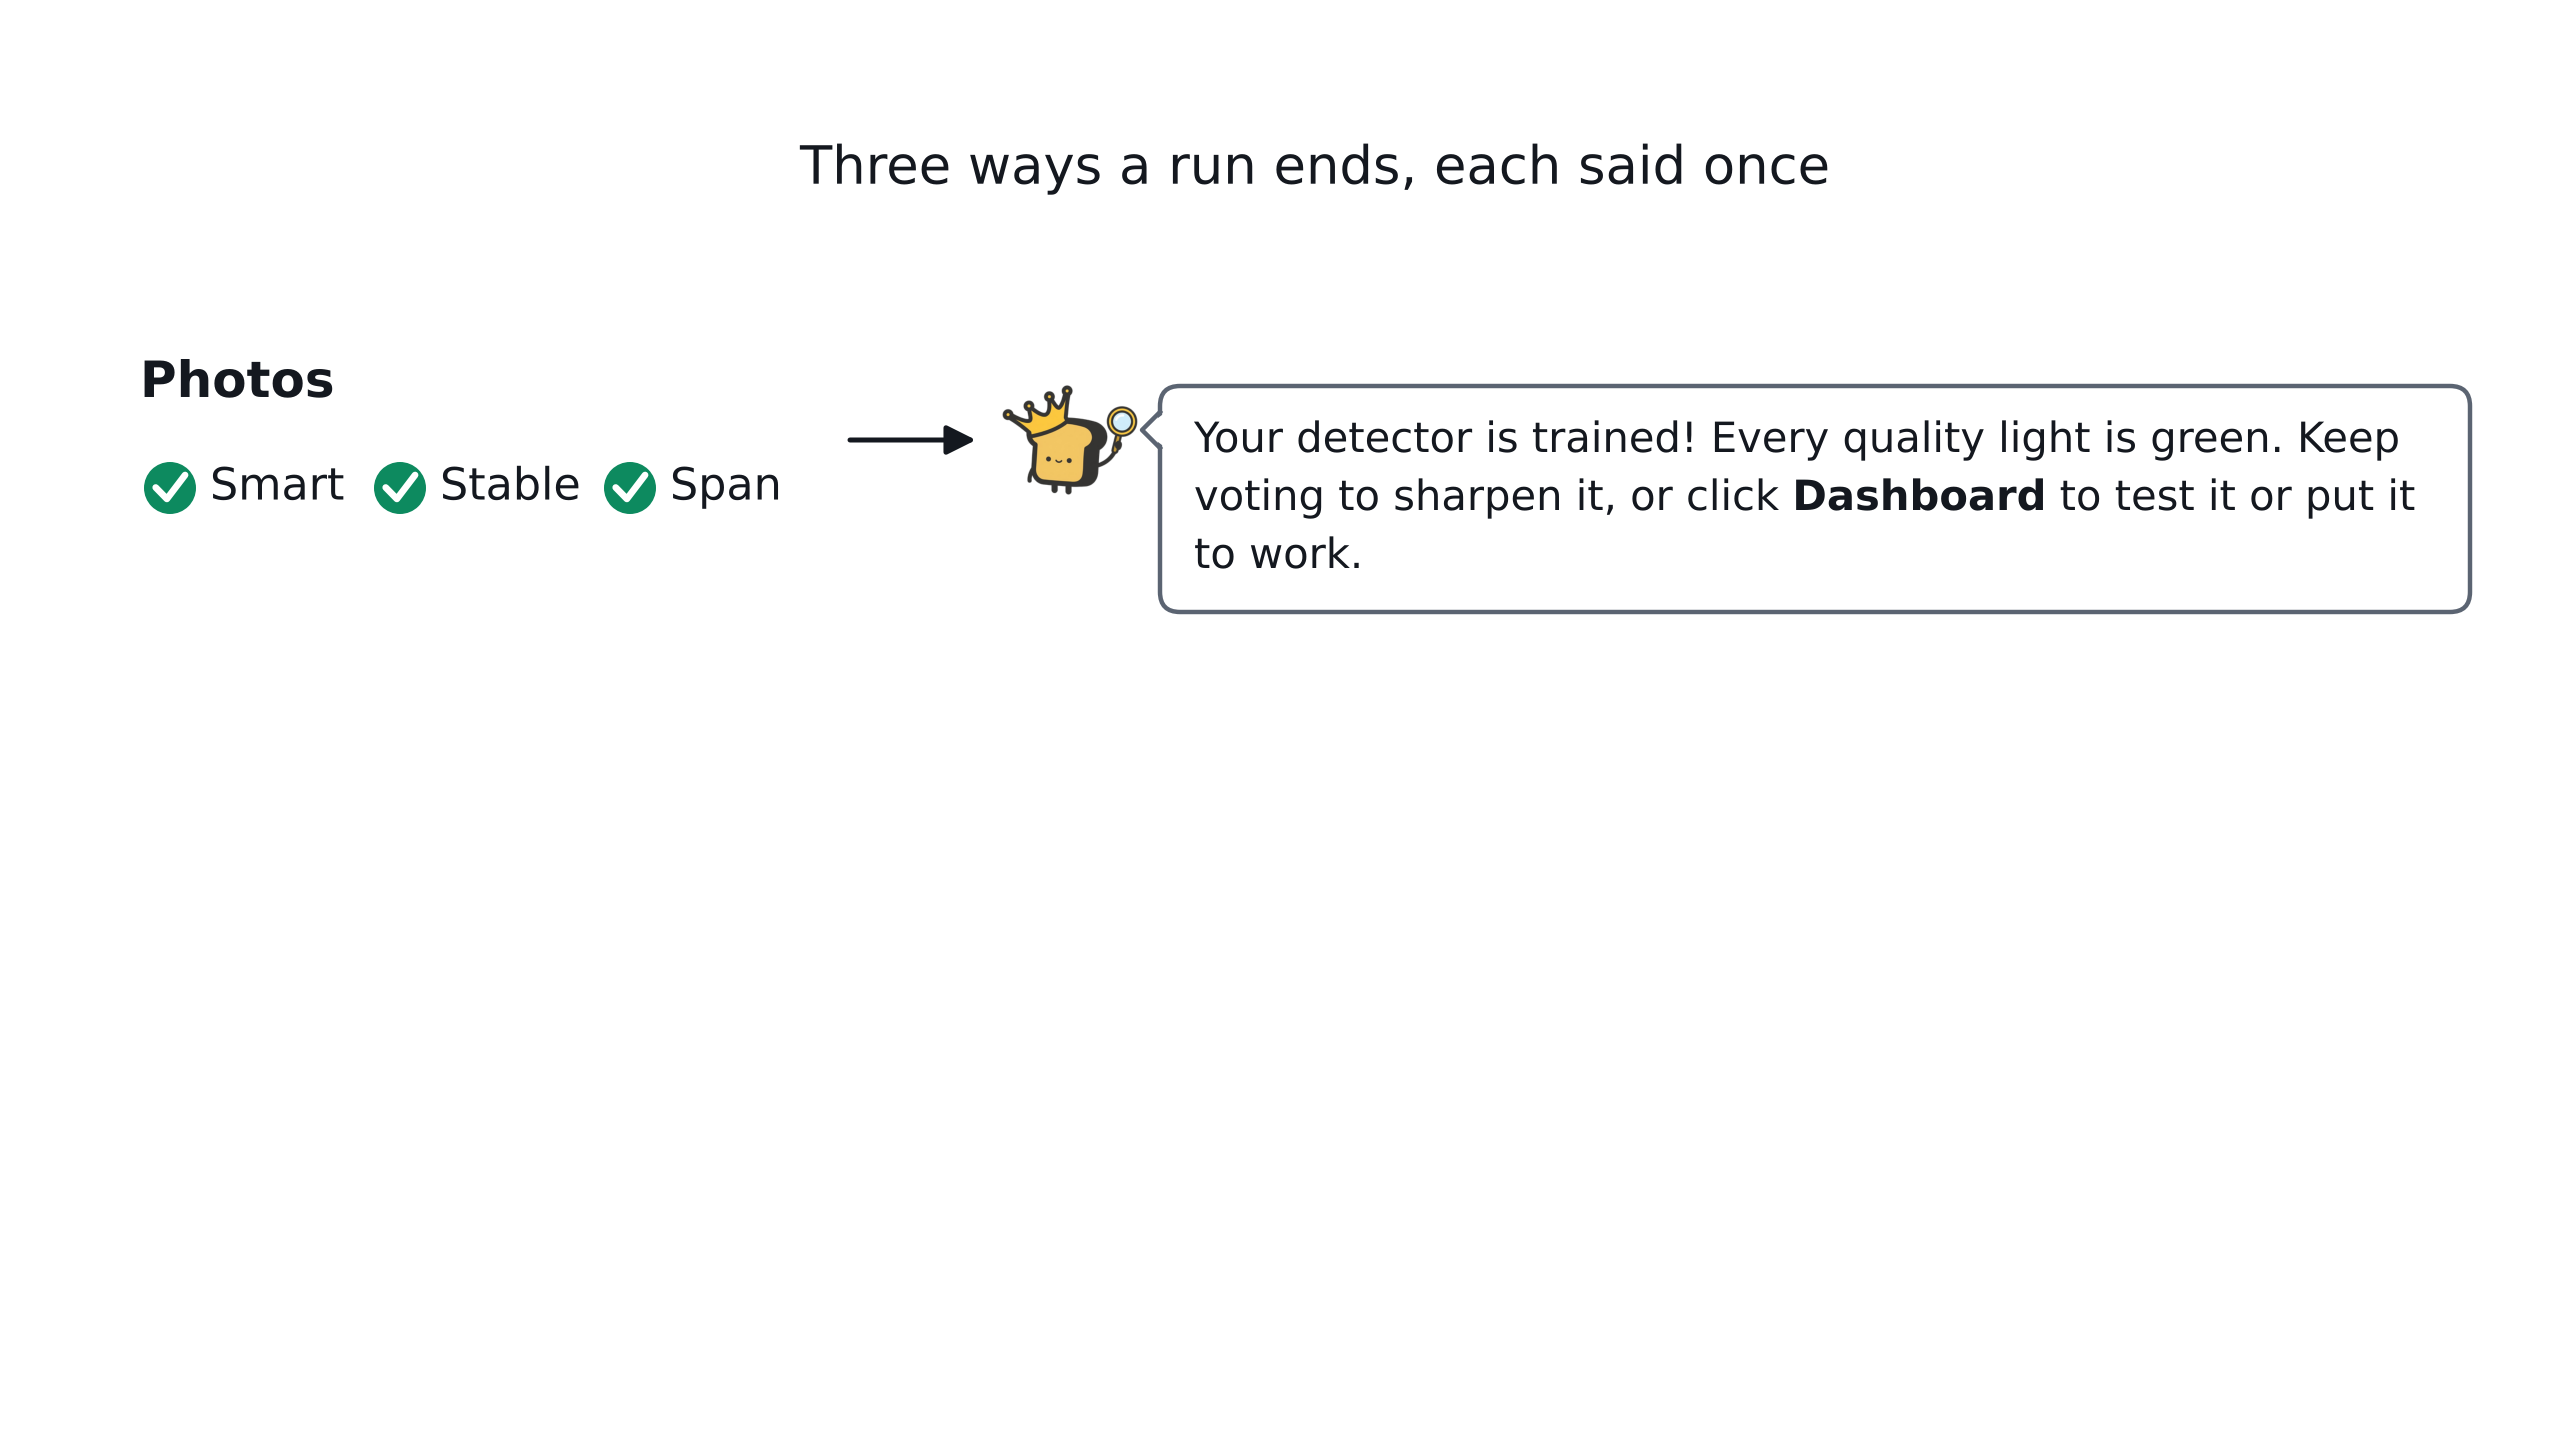
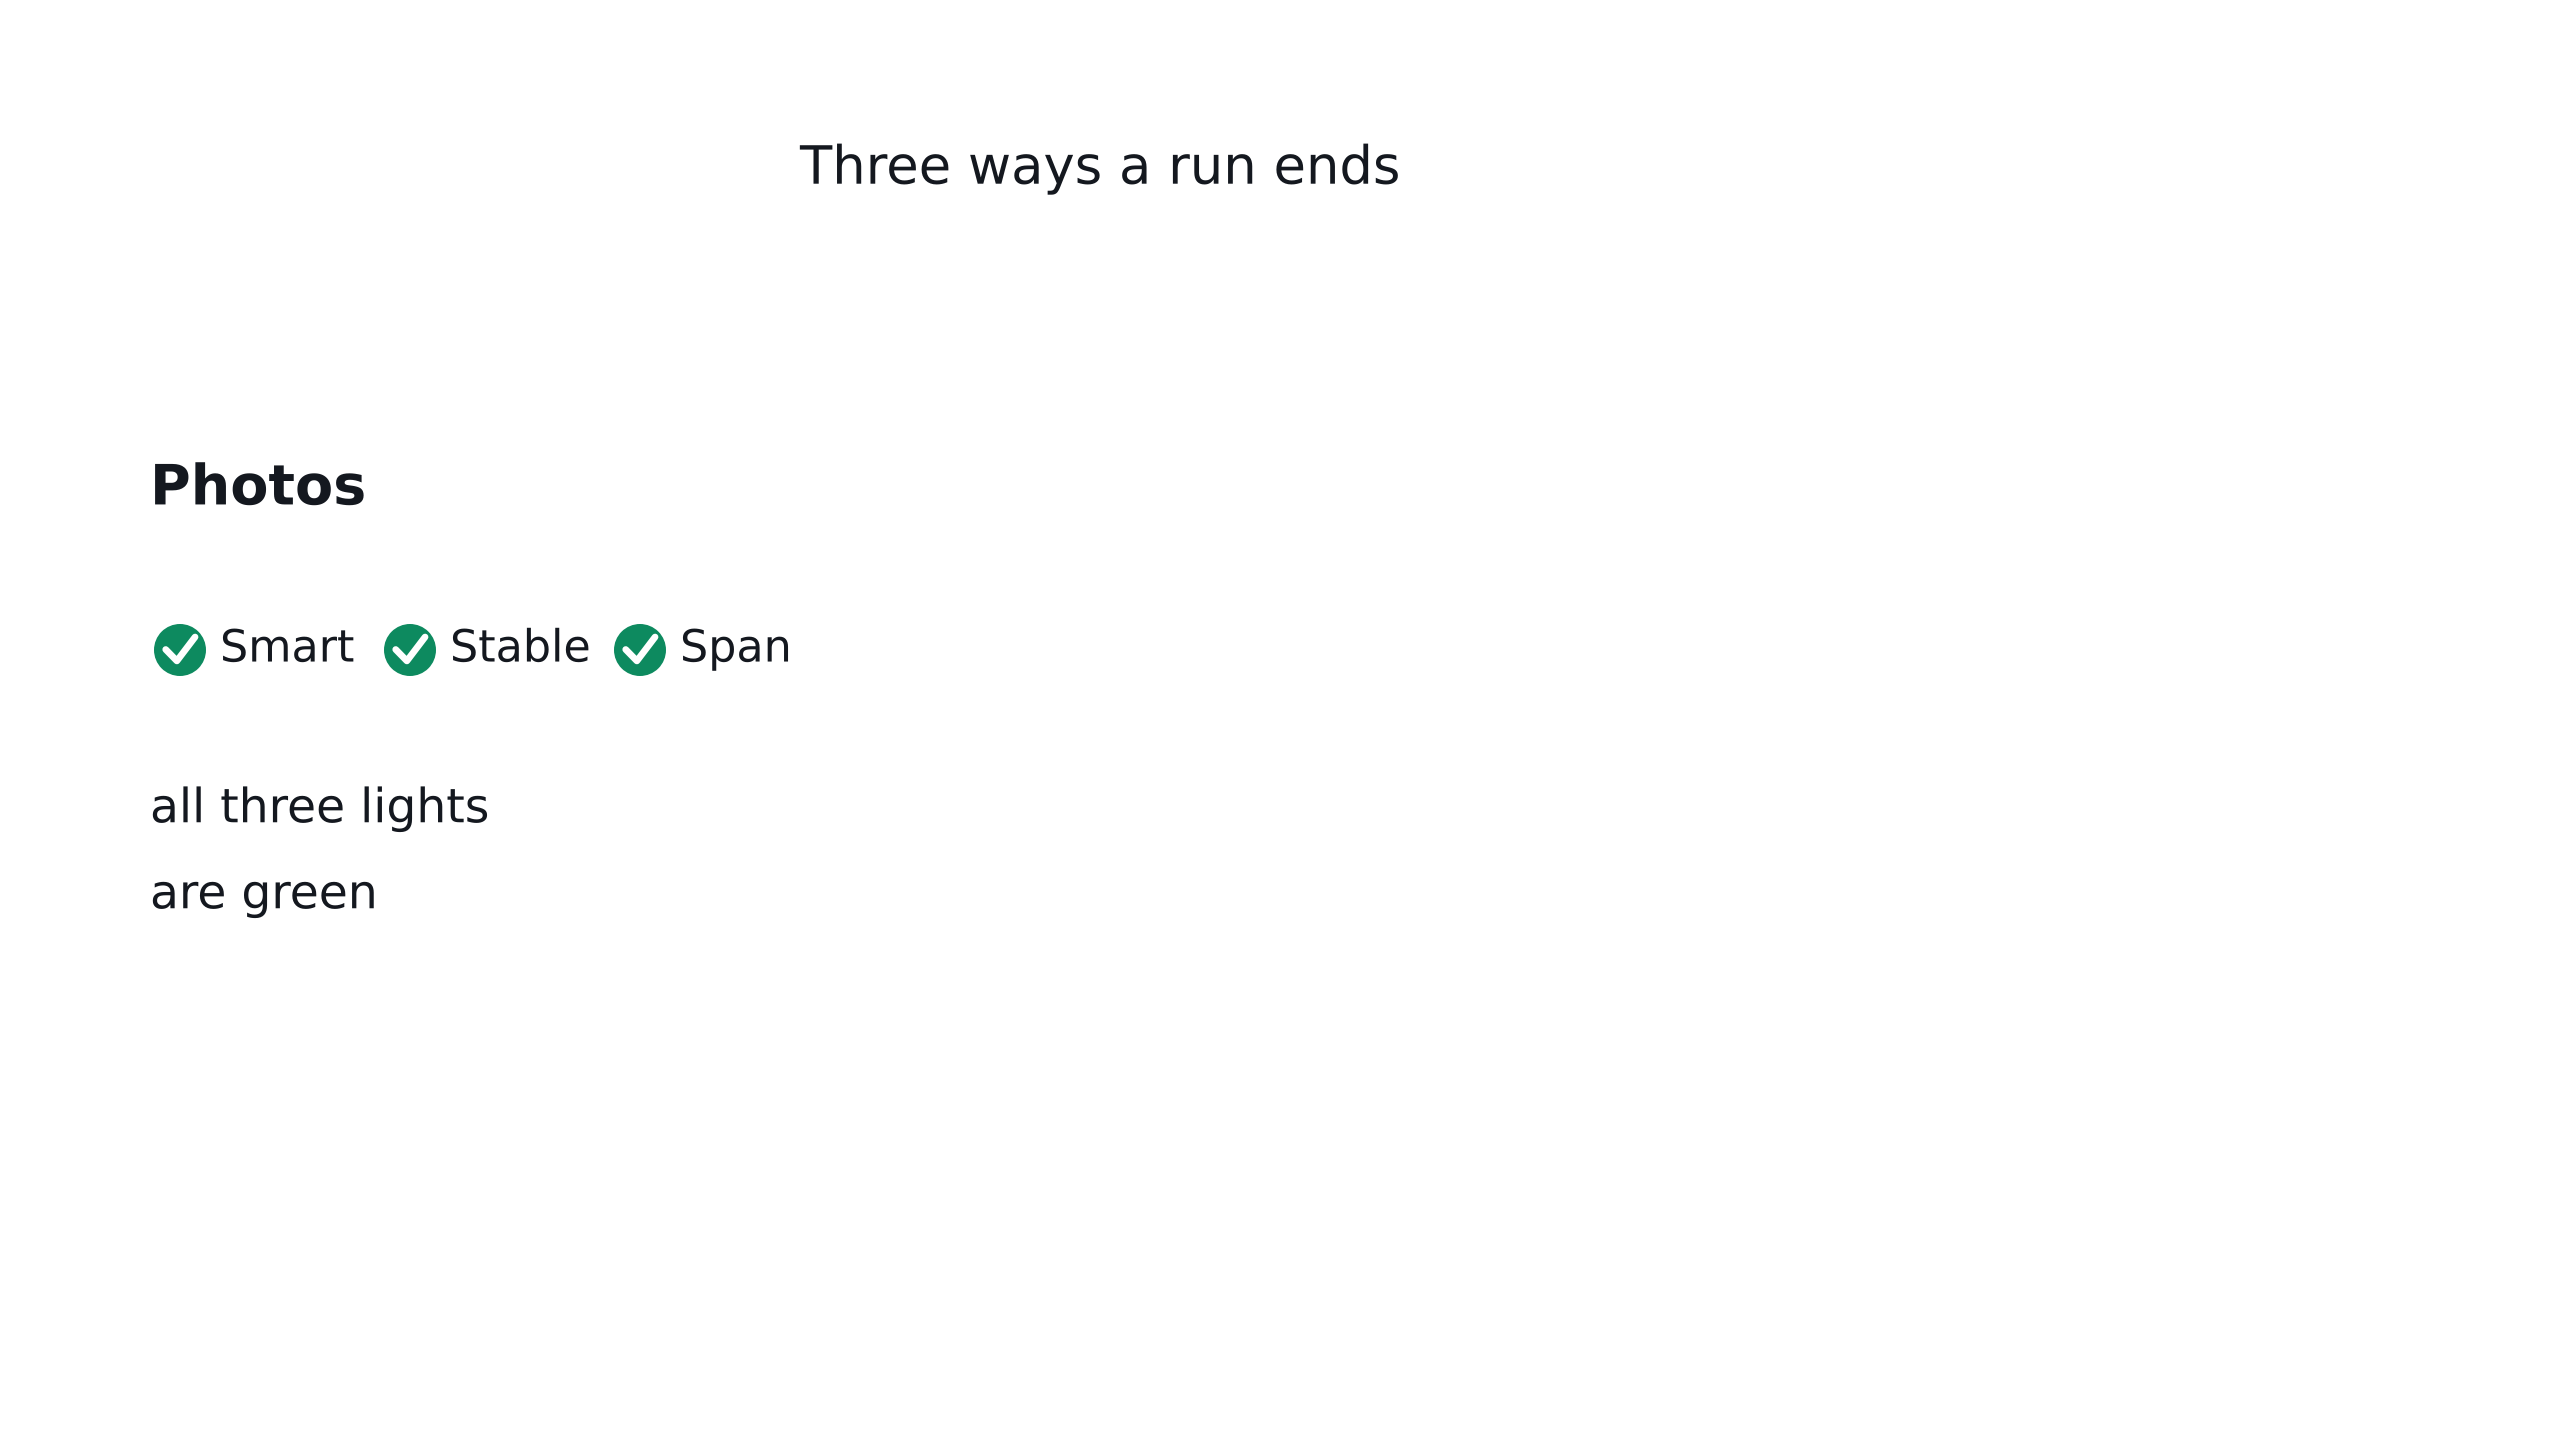
Slides: Cleared to Land draws the three endings alone (#5144)
Toasty's hand-off no longer says why a run ended (#5143), so the
figure's per-ending hint bubbles quoted texts the app no longer has.
The slide now shows just the three ways a run ends, side by side and
one per build: every light green on photos, a run of 16 Bads on
documents, every item voted.

Claude-Session: https://claude.ai/code/session_016ZTuZSUnjYgVo6UxJ3SUpv

diff --git a/slides/figs/src/make-autopilot-figs.py b/slides/figs/src/make-autopilot-figs.py
@@ -25,8 +25,8 @@ Schematic inputs, real code, as in `make-test-figs.py`:
 * `autopilot-span` counts the walk's run over the first 40 cells of an atlas,
   as `CoverageAtlas.coverage_level` does, and reads the light from the
   harness's port of the Span rule.
-* `autopilot-done` is the hand-off, Toasty's hint in the app's own words
-  (`app.component.html`).
+* `autopilot-done` is the three ways a run ends: every light green, a
+  document walk run dry (the harness's `MORE_DRY_RUN`), every item voted.
 
 The last figure, `autopilot-stop`, is the only measurement: where the stop
 fired in today's app, at each radio's beta, and what clicking on bought. It is
@@ -59,7 +59,7 @@ matplotlib.use("Agg")
 import matplotlib.pyplot as plt  # noqa: E402
 import numpy as np  # noqa: E402
 from matplotlib.figure import Figure  # noqa: E402
-from matplotlib.patches import Circle, FancyBboxPatch, Polygon, Rectangle  # noqa: E402
+from matplotlib.patches import Circle, Rectangle  # noqa: E402
 
 sys.path.insert(0, str(Path(__file__).resolve().parent))
 from slide_figure import FULL_BLEED, INK, SOFT, save, spread_labels  # noqa: E402
@@ -880,125 +880,62 @@ def _span_stage(stage: int) -> Figure:
 # ── Cleared to Land: Done ────────────────────────────────────────────────────
 
 DONE_STAGES = 3
-#: Toasty's picture: the happy face every hand-off hint wears
-#: (`frontend/src/app/utils/toasty-faces.ts`).
-TOASTY_PNG = _REPO_ROOT / "frontend" / "public" / "logo.png"
-#: The three hints, top to bottom, as `app.component.html` words them. A
-#: ``*word*`` is set bold, as the app sets Dashboard; the dry run's count is the
-#: harness's constant, which mirrors the app's.
-DONE_HINTS = (
-    "Your detector is trained! Every quality light is green. Keep voting to sharpen it, or click *Dashboard* to "
-    "test it or put it to work.",
-    f"Your detector is trained! {MORE_DRY_RUN} of its best matches in a row were not good, so it has likely found "
-    "what it can. Keep voting to sharpen it, or click *Dashboard* to test it or put it to work.",
-    "You've labeled every item in this dataset! Click *Dashboard* to test or run your detector on another dataset.",
-)
-#: Toasty stands at the left and his bubble reaches right, as `toastyHintPlacement`
-#: lays a hint under the top bar's Dashboard button; the bubble drops a little
-#: below his head, as the component's margin does.
-TOASTY_SIZE = 0.7
-TOASTY_X = 5.0
-BUBBLE_X0, BUBBLE_X1 = TOASTY_X + TOASTY_SIZE + 0.1, 12.35
-BUBBLE_DROP, BUBBLE_PAD, TAIL_DROP, TAIL = 0.08, 0.17, 0.22, 0.09
-HINT_SIZE, HINT_LEADING, HINT_ASCENT, HINT_DESCENT = 15, 0.29, 0.16, 0.05
-#: The first hint's top, low enough that the ending beside it clears the title
-#: notch; and the gap between hints.
-HINT_TOP, HINT_GAP = 5.35, 0.3
-#: Where each ending's words stop and its arrow to Toasty starts.
-ENDING_X0, ENDING_X1 = 0.7, 4.25
+#: The three endings, side by side: each column's left edge, and the heights of
+#: its heading, its picture and its two lines of words. The picture sits low
+#: enough that the first column clears the title notch.
+DONE_COL_X = (0.75, 4.85, 8.95)
+DONE_HEAD_Y, DONE_PICTURE_Y, DONE_WORDS_Y = 4.75, 3.95, (3.15, 2.72)
+#: A vote in the Documents and Anything pictures: a disc in its class's hue,
+#: red a Bad and green a Good, as everywhere in the deck.
+DONE_VOTE_R, DONE_VOTE_PITCH = 0.085, 0.215
+#: Anything's collection, every item voted: a grid of Goods and Bads.
+DONE_GRID_ROWS, DONE_GRID_COLS, DONE_GRID_GOOD = 3, 14, 0.3
 
 
 def done_fig() -> None:
-    """The ways a run ends, and what the app says at each, in the app's own words.
+    """The ways a run ends: every light green on photos, a document walk run dry, every item voted.
 
-    Since #4680 the hand-off is Toasty's hint under the top bar's Dashboard
-    button, one version per ending. Three stages: every light green on a photo
-    collection; a document collection's dry run; every item labeled.
+    Toasty's hand-off says the same thing whichever ending it was (#5143), so
+    the slide draws the endings alone. Three stages, one ending each.
     """
     _save(DONE_STAGES, _done_stage, "autopilot-done")
 
 
-def _arrow(ax: plt.Axes, x0: float, y0: float, x1: float, y1: float) -> None:
-    ax.annotate("", xy=(x1, y1), xytext=(x0, y0),
-                arrowprops=dict(arrowstyle="-|>", color=INK, linewidth=1.8, mutation_scale=22,
-                                shrinkA=0, shrinkB=0))  # fmt: skip
+def _done_column(ax: plt.Axes, x: float, head: str, words: tuple[str, str]) -> None:
+    ax.text(x, DONE_HEAD_Y, head, ha="left", va="center", fontsize=20, fontweight="bold")
+    for y, line in zip(DONE_WORDS_Y, words, strict=True):
+        ax.text(x, y, line, ha="left", va="center", fontsize=17)
 
 
-def _text_width(ax: plt.Axes, words: str, bold: bool) -> float:
-    label = ax.text(0, 0, words, fontsize=HINT_SIZE, fontweight="bold" if bold else "normal")
-    width = label.get_window_extent(ax.figure.canvas.get_renderer()).width / ax.figure.dpi
-    label.remove()
-    return width
-
-
-def _wrap(ax: plt.Axes, words: str) -> list[list[tuple[str, bool, float]]]:
-    """*words* in lines that fit the bubble, each word with its weight and its offset from the line's start."""
-    room = BUBBLE_X1 - BUBBLE_X0 - 2 * BUBBLE_PAD
-    space = _text_width(ax, "a a", False) - _text_width(ax, "aa", False)
-    lines: list[list[tuple[str, bool, float]]] = [[]]
-    end = 0.0
-    for word in words.split():
-        bold = word.startswith("*")
-        word = word.strip("*")
-        width = _text_width(ax, word, bold)
-        if lines[-1] and end + space + width > room:
-            lines.append([])
-        start = end + space if lines[-1] else 0.0
-        lines[-1].append((word, bold, start))
-        end = start + width
-    return lines
-
-
-def _hint(ax: plt.Axes, top: float, lines: list[list[tuple[str, bool, float]]], face: np.ndarray | None) -> float:
-    """Toasty and his bubble, top edge at *top*; returns the hint's bottom. Drawn only when *face* is given."""
-    bubble_top = top - BUBBLE_DROP
-    height = HINT_ASCENT + (len(lines) - 1) * HINT_LEADING + HINT_DESCENT + 2 * BUBBLE_PAD
-    if face is not None:
-        ax.imshow(face, extent=(TOASTY_X, TOASTY_X + TOASTY_SIZE, top - TOASTY_SIZE, top), aspect="auto", zorder=5)
-        ax.add_patch(FancyBboxPatch((BUBBLE_X0, bubble_top - height), BUBBLE_X1 - BUBBLE_X0, height,
-                                    boxstyle="round,pad=0,rounding_size=0.1", facecolor="white", edgecolor=SOFT,
-                                    linewidth=1.6, zorder=4))  # fmt: skip
-        # The tail, pointing back at Toasty: white over the bubble's edge, outlined on its two outer sides.
-        y = bubble_top - TAIL_DROP
-        ax.add_patch(Polygon([(BUBBLE_X0 + 0.03, y + TAIL), (BUBBLE_X0 - TAIL, y), (BUBBLE_X0 + 0.03, y - TAIL)],
-                             facecolor="white", edgecolor="none", zorder=5))  # fmt: skip
-        ax.plot([BUBBLE_X0, BUBBLE_X0 - TAIL, BUBBLE_X0], [y + TAIL, y, y - TAIL], color=SOFT, linewidth=1.6,
-                zorder=6)  # fmt: skip
-        for k, line in enumerate(lines):
-            baseline = bubble_top - BUBBLE_PAD - HINT_ASCENT - k * HINT_LEADING
-            for word, bold, start in line:
-                ax.text(BUBBLE_X0 + BUBBLE_PAD + start, baseline, word, ha="left", va="baseline",
-                        fontsize=HINT_SIZE, fontweight="bold" if bold else "normal", zorder=6)  # fmt: skip
-    return min(top - TOASTY_SIZE, bubble_top - height)
+def _vote(ax: plt.Axes, x: float, y: float, good: bool) -> None:
+    ax.add_patch(Circle((x, y), DONE_VOTE_R, facecolor=GREEN if good else RED, edgecolor="none", zorder=6))
 
 
 def _done_stage(stage: int) -> Figure:
     fig, ax = _canvas()
-    _statement(ax, "Three ways a run ends, each said once")
-    face = plt.imread(TOASTY_PNG)
-    # Lay all three out on every stage, so the build only adds.
-    middles, top = [], HINT_TOP
-    for k, words in enumerate(DONE_HINTS):
-        middles.append(top - TOASTY_SIZE / 2)
-        top = _hint(ax, top, _wrap(ax, words), face if stage > k else None) - HINT_GAP
-    for k in range(stage):
-        _arrow(ax, ENDING_X1, middles[k], TOASTY_X - 0.12, middles[k])
+    _statement(ax, "Three ways a run ends")
     # Photos: every light green.
-    y = middles[0]
-    ax.text(ENDING_X0, y + 0.28, "Photos", ha="left", va="center", fontsize=18, fontweight="bold")
+    x = DONE_COL_X[0]
+    _done_column(ax, x, "Photos", ("all three lights", "are green"))
     for k, word in enumerate(("Smart", "Stable", "Span")):
-        x = ENDING_X0 + 0.15 + k * 1.15
-        _light(ax, x, y - 0.24, "green")
-        ax.text(x + 0.2, y - 0.24, word, ha="left", va="center", fontsize=16)
+        lx = x + 0.15 + k * 1.15
+        _light(ax, lx, DONE_PICTURE_Y, "green")
+        ax.text(lx + 0.2, DONE_PICTURE_Y, word, ha="left", va="center", fontsize=16)
     if stage >= 2:
-        y = middles[1]
-        ax.text(ENDING_X0, y + 0.38, "Documents", ha="left", va="center", fontsize=18, fontweight="bold")
-        ax.text(ENDING_X0, y - 0.05, f"{MORE_DRY_RUN} best matches in a row,", ha="left", va="center", fontsize=16)
-        ax.text(ENDING_X0, y - 0.4, "not one of them Good", ha="left", va="center", fontsize=16)
+        # Documents: the walk's best matches, a run of Bads as long as the dry-run stop.
+        x = DONE_COL_X[1]
+        _done_column(ax, x, "Documents", (f"{MORE_DRY_RUN} best matches in a row,", "not one of them Good"))
+        for k in range(MORE_DRY_RUN):
+            _vote(ax, x + DONE_VOTE_R + k * DONE_VOTE_PITCH, DONE_PICTURE_Y, good=False)
     if stage >= 3:
-        y = middles[2]
-        ax.text(ENDING_X0, y + 0.22, "Anything", ha="left", va="center", fontsize=18, fontweight="bold")
-        ax.text(ENDING_X0, y - 0.23, "every item has a vote", ha="left", va="center", fontsize=16)
+        # Anything: nothing left to show.
+        x = DONE_COL_X[2]
+        _done_column(ax, x, "Anything", ("every item", "has a vote"))
+        good = np.random.default_rng(42).random((DONE_GRID_ROWS, DONE_GRID_COLS)) < DONE_GRID_GOOD
+        for row in range(DONE_GRID_ROWS):
+            for col in range(DONE_GRID_COLS):
+                y = DONE_PICTURE_Y + (1 - row) * DONE_VOTE_PITCH
+                _vote(ax, x + DONE_VOTE_R + col * DONE_VOTE_PITCH, y, good=bool(good[row, col]))
     return fig
 
 

diff --git a/slides/fragments/autopilot-done.md b/slides/fragments/autopilot-done.md
@@ -14,8 +14,8 @@
      choose. -->
 
 <!-- **b** — Documents stop differently: sixteen best matches in a row, none
-     Good. Clicking on past that found at most 0.8% more. Same news, with that
-     reason. -->
+     Good. Clicking on past that found at most 0.8% more. Toasty's news is the
+     same, trained; the user never needs the reason. -->
 
 <!-- **c** — And on a small collection we might vote on everything first; then
      it just says so. Each is said once. -->
